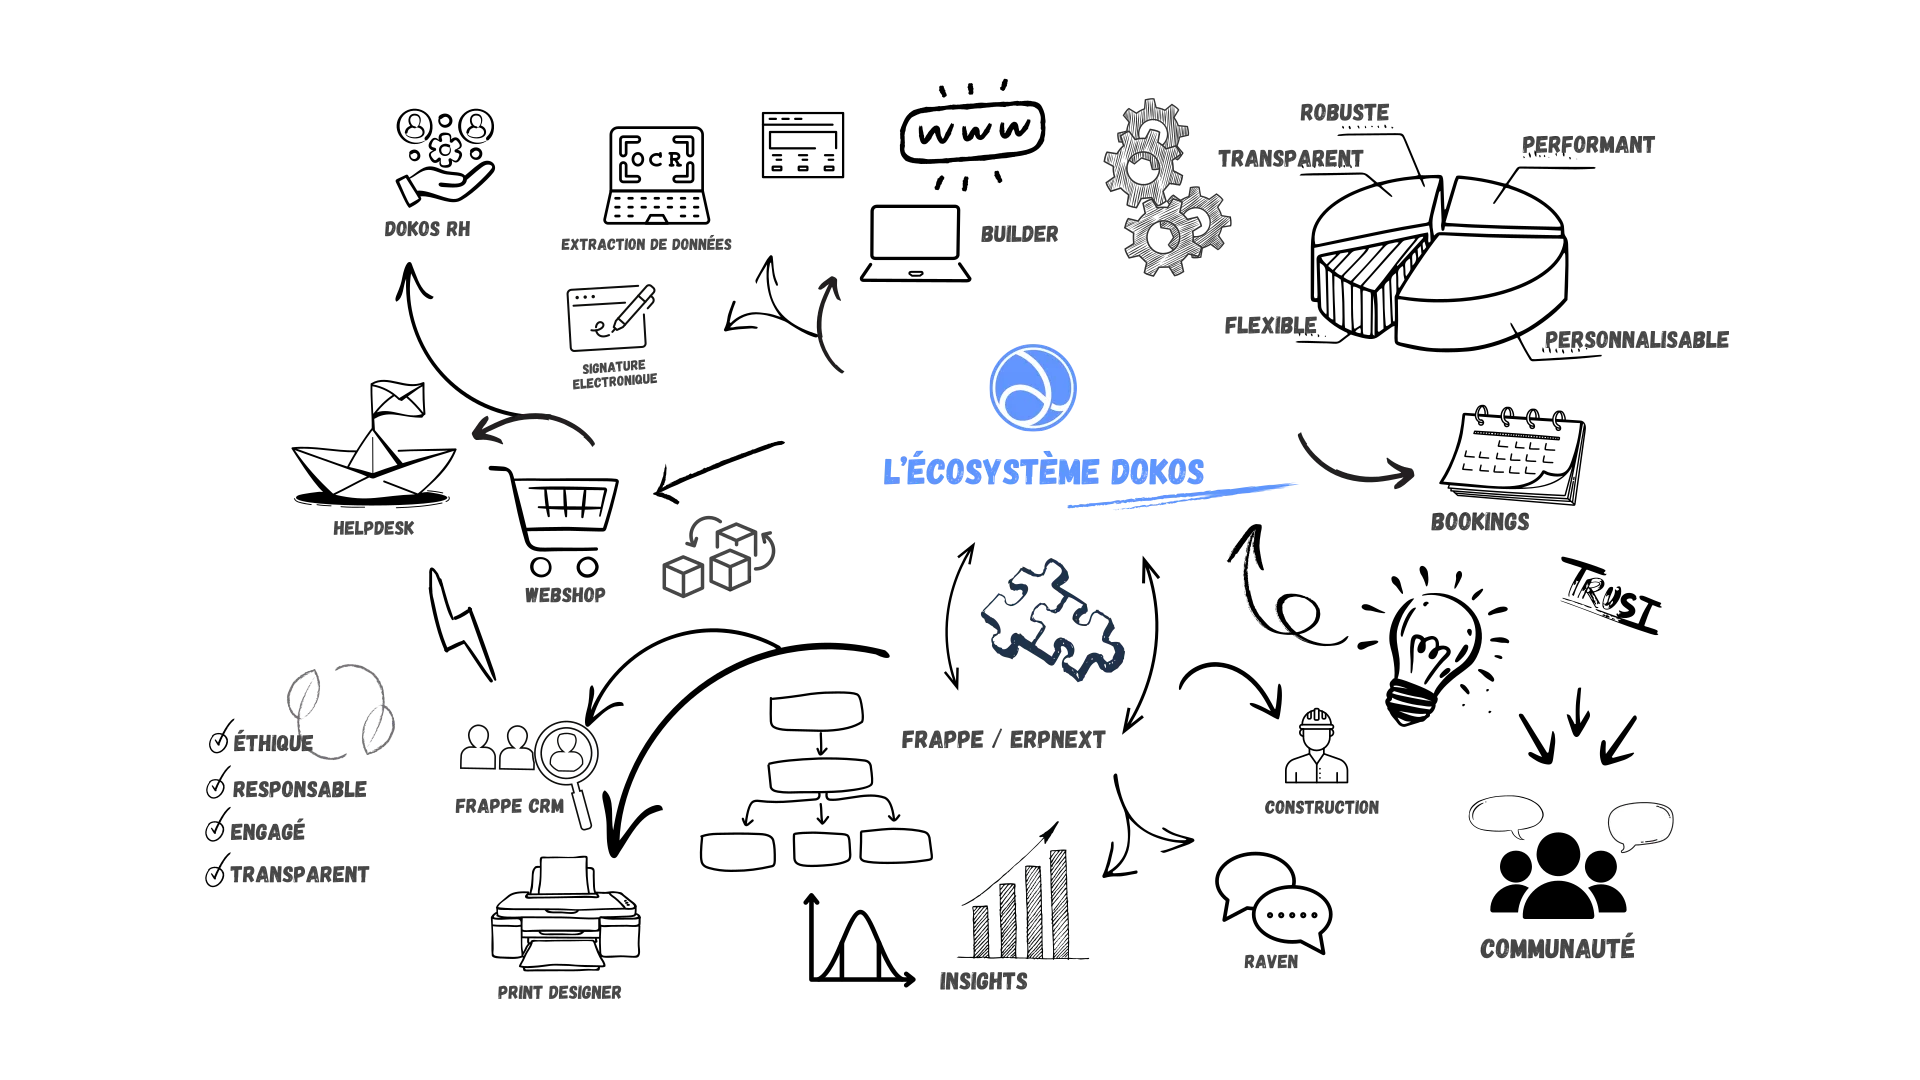
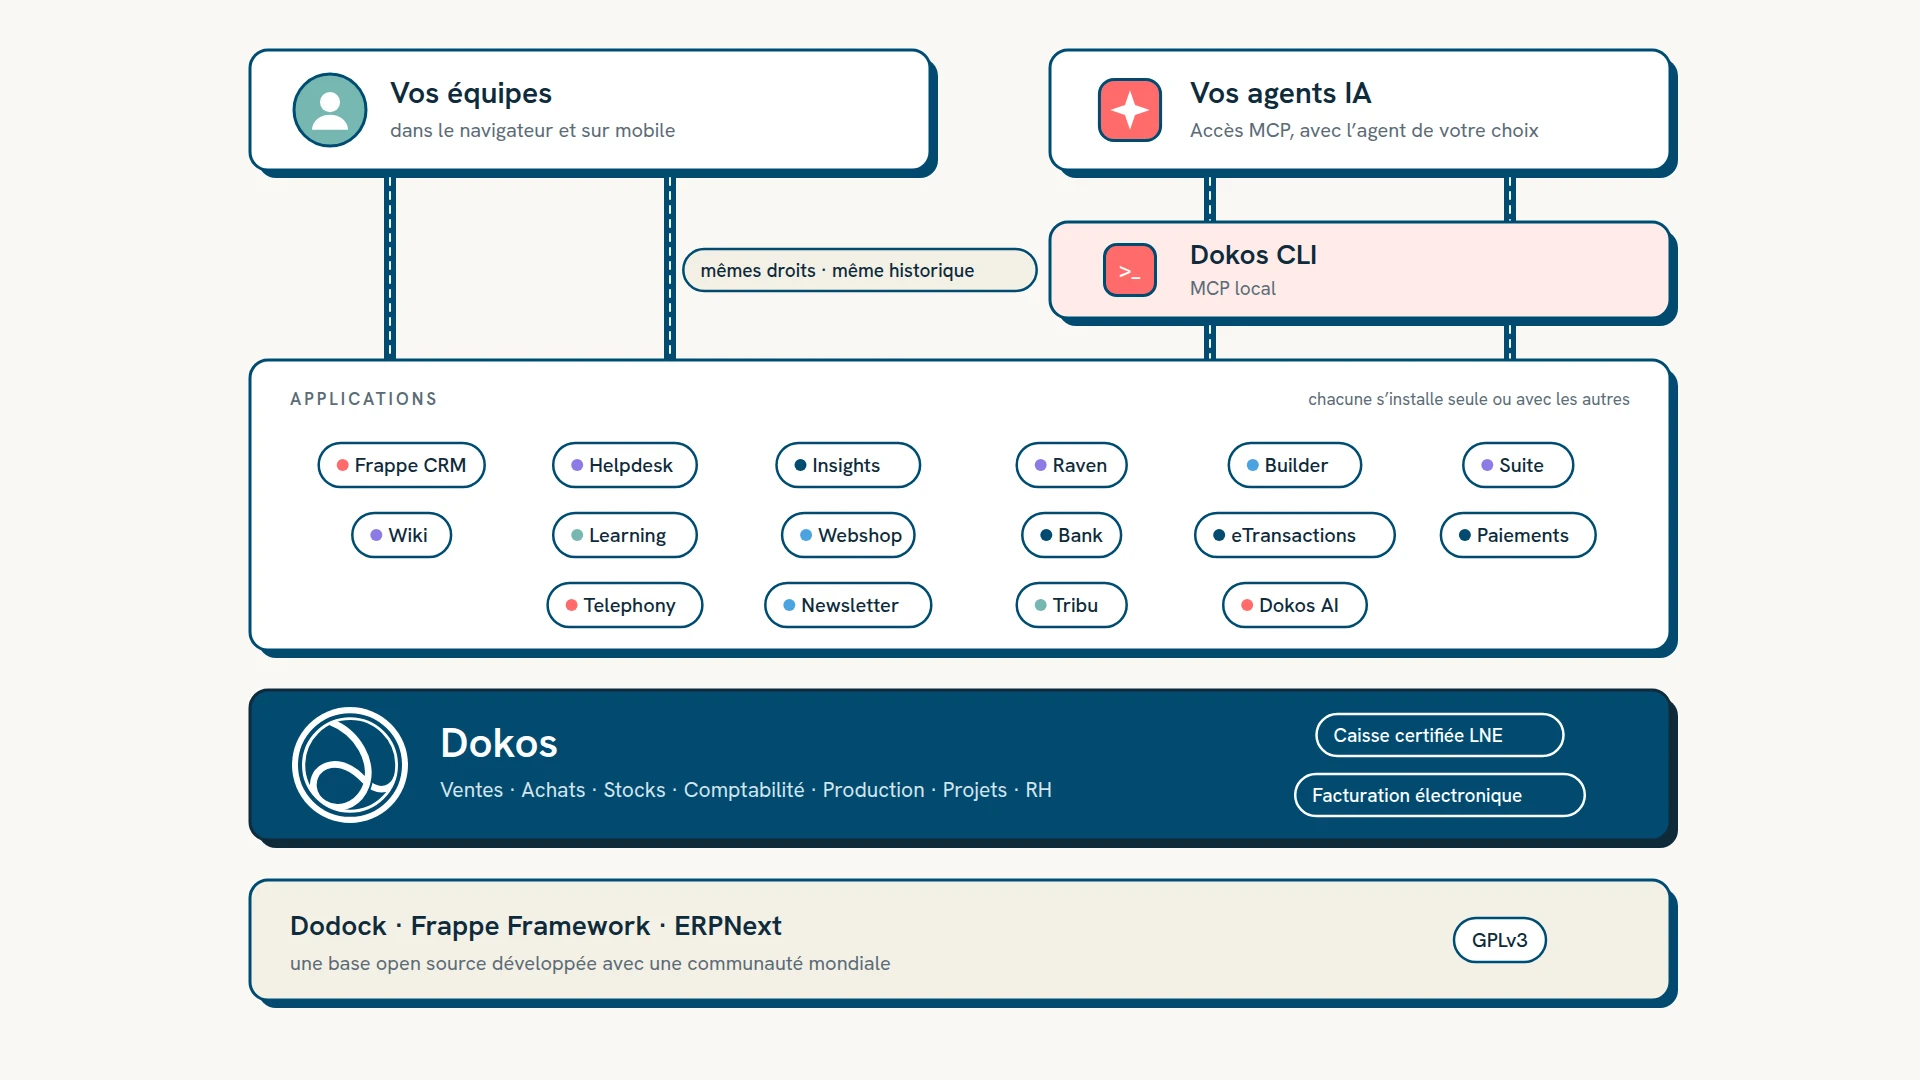
feat(home): draw the ecosystem as a stack in the hero
The French homepage hero now has two columns. On the left, the title and
three points, one for each layer: one database, the apps that plug into
it, and access for teams and AI agents. On the right, HomeStack.vue draws
the stack in HTML: Dodock/Frappe/ERPNext, Dokos, the apps, Dokos CLI
(local MCP) and the two entry points. Each block links to its product
page. Hovering a point highlights its layer.

The content lives in hero.points and hero.stack in content/fr/index.yml.
Pages without hero.stack (English for now) keep the image layout.
hero_dokos.webp is redrawn as the same stack. Agents are not named by
product: the copy says MCP only.

Changed region(s): [[0.0938, 0.0306, 0.9062, 0.9472]]

diff --git a/components/home/HomeStack.vue b/components/home/HomeStack.vue
@@ -1,0 +1,176 @@
+<script setup lang="ts">
+// The Dokos ecosystem drawn as a stack, from the open source base up to the
+// people and AI agents who use it. Content comes from `hero.stack` in
+// content/<locale>/index.yml. `focus` dims every layer except one; the hero
+// sets it when a visitor hovers one of its three points.
+
+type Layer = "core" | "apps" | "access";
+
+interface Block {
+    title: string;
+    note?: string;
+    to?: string;
+}
+
+interface Stack {
+    teams: Block;
+    agents: Block;
+    cli: Block;
+    shared?: string;
+    apps_label?: string;
+    apps_note?: string;
+    apps: (Block & { domain?: string })[];
+    core: Block & { tags?: string[] };
+    base: Block & { tag?: string };
+}
+
+const props = defineProps<{ stack: Stack; focus?: Layer | null }>();
+
+// One dot colour per business domain, shared with the hero illustration.
+const DOMAIN_COLOURS: Record<string, string> = {
+    sales: "bg-[#FF6B6B]",
+    finance: "bg-dokos-500 dark:bg-dokos-300",
+    ops: "bg-[#E0A43A]",
+    people: "bg-[#76B7B2]",
+    collab: "bg-[#8C7AE6]",
+    web: "bg-[#4AA3DF]",
+    ai: "bg-[#FF6B6B]",
+};
+
+function layerClass(layer: Layer) {
+    if (!props.focus || props.focus === layer) return "";
+    return "opacity-30 saturate-50";
+}
+
+const slab =
+    "rounded-xl border-[2.5px] border-dokos-500 dark:border-dokos-300 shadow-[6px_6px_0_var(--color-dokos-500)] dark:shadow-[6px_6px_0_var(--color-dokos-400)] transition-[opacity,filter] duration-200";
+const strap =
+    "relative w-[11px] bg-dokos-500 dark:bg-dokos-300 after:absolute after:inset-y-0 after:left-1 after:border-l-2 after:border-dashed after:border-sand-100 dark:after:border-stone-950";
+</script>
+
+<template>
+    <div class="grid gap-3.5 text-[15px] text-left" role="group" aria-label="L'écosystème Dokos">
+        <!-- Who works in Dokos: people, and agents through MCP. -->
+        <div
+            class="grid grid-cols-2 gap-x-3 sm:gap-x-5"
+            :class="layerClass('access')"
+        >
+            <ULink
+                :to="stack.teams.to"
+                :class="[slab, 'flex flex-col sm:flex-row sm:items-center gap-2 sm:gap-3.5 bg-white dark:bg-stone-900 p-3 sm:p-4']"
+            >
+                <span class="grid place-items-center size-9 sm:size-11 shrink-0 rounded-full border-[2.5px] border-dokos-500 dark:border-dokos-300 bg-[#76B7B2] text-white">
+                    <UIcon name="i-heroicons-user-solid" class="size-5 sm:size-6" />
+                </span>
+                <span>
+                    <b class="block text-base sm:text-lg leading-tight text-highlighted">{{ stack.teams.title }}</b>
+                    <small class="block text-xs sm:text-sm text-muted">{{ stack.teams.note }}</small>
+                </span>
+            </ULink>
+
+            <ULink
+                :to="stack.agents.to"
+                :class="[slab, 'flex flex-col sm:flex-row sm:items-center gap-2 sm:gap-3.5 bg-white dark:bg-stone-900 p-3 sm:p-4']"
+            >
+                <span class="grid place-items-center size-9 sm:size-11 shrink-0 rounded-[11px] border-[2.5px] border-dokos-500 dark:border-dokos-300 bg-accent text-white">
+                    <UIcon name="i-heroicons-sparkles-solid" class="size-5 sm:size-6" />
+                </span>
+                <span>
+                    <b class="block text-base sm:text-lg leading-tight text-highlighted">{{ stack.agents.title }}</b>
+                    <small class="block text-xs sm:text-sm text-muted">{{ stack.agents.note }}</small>
+                </span>
+            </ULink>
+
+            <!-- Teams go straight down to the apps. -->
+            <div class="relative flex justify-around" aria-hidden="true">
+                <span :class="strap" />
+                <span :class="strap" />
+                <span
+                    v-if="stack.shared"
+                    class="absolute left-1/2 top-1/2 -translate-x-1/2 -translate-y-1/2 w-[88%] sm:w-auto sm:whitespace-nowrap text-center rounded-full border-2 border-dokos-500 dark:border-dokos-300 bg-sand-200 dark:bg-stone-800 px-2.5 sm:px-3.5 py-1 text-[11px] sm:text-[13px] font-medium text-highlighted"
+                >
+                    {{ stack.shared }}
+                </span>
+            </div>
+
+            <!-- Agents go through Dokos CLI. -->
+            <div class="flex flex-col">
+                <div class="flex justify-around h-4" aria-hidden="true">
+                    <span :class="strap" />
+                    <span :class="strap" />
+                </div>
+                <ULink
+                    :to="stack.cli.to"
+                    :class="[slab, 'flex flex-col sm:flex-row sm:items-center gap-2 sm:gap-3.5 bg-[#FFECEA] dark:bg-[#3b2222] p-3 sm:p-4']"
+                >
+                    <span class="grid place-items-center size-9 shrink-0 rounded-[10px] border-[2.5px] border-dokos-500 dark:border-dokos-300 bg-accent text-white">
+                        <UIcon name="i-heroicons-command-line" class="size-5" />
+                    </span>
+                    <span>
+                        <b class="block text-base sm:text-lg leading-tight text-highlighted">{{ stack.cli.title }}</b>
+                        <small class="block text-xs sm:text-sm text-muted">{{ stack.cli.note }}</small>
+                    </span>
+                </ULink>
+                <div class="flex justify-around h-4" aria-hidden="true">
+                    <span :class="strap" />
+                    <span :class="strap" />
+                </div>
+            </div>
+        </div>
+
+        <!-- Apps that plug into Dokos. -->
+        <div :class="[slab, layerClass('apps'), 'bg-white dark:bg-stone-900 p-4 sm:px-5']">
+            <div class="flex items-baseline justify-between gap-3 mb-3">
+                <span class="text-xs font-semibold uppercase tracking-[0.14em] text-muted">{{ stack.apps_label }}</span>
+                <span class="hidden sm:inline text-[13px] text-muted">{{ stack.apps_note }}</span>
+            </div>
+            <ul class="grid grid-cols-3 sm:grid-cols-4 gap-1.5 sm:gap-2.5">
+                <li v-for="app in stack.apps" :key="app.title">
+                    <ULink
+                        :to="app.to"
+                        class="flex items-center justify-center gap-1.5 sm:gap-2 rounded-full border-2 bg-white dark:bg-stone-900 px-1 sm:px-2 py-1.5 text-xs sm:text-sm font-medium whitespace-nowrap text-highlighted transition hover:-translate-x-0.5 hover:-translate-y-0.5 hover:bg-sand-200 dark:hover:bg-stone-800 hover:shadow-[3px_3px_0_var(--color-dokos-500)] focus-visible:-translate-x-0.5 focus-visible:-translate-y-0.5"
+                        :class="app.domain === 'ai' ? 'border-accent' : 'border-dokos-500 dark:border-dokos-300'"
+                    >
+                        <span class="size-2 shrink-0 rounded-full" :class="DOMAIN_COLOURS[app.domain ?? 'collab']" aria-hidden="true" />
+                        {{ app.title }}
+                    </ULink>
+                </li>
+            </ul>
+        </div>
+
+        <!-- Dokos itself, on the open source base. -->
+        <ULink
+            :to="stack.core.to"
+            :class="[slab, layerClass('core'), 'flex flex-wrap sm:flex-nowrap items-center gap-3 sm:gap-4 bg-dokos-500 dark:bg-dokos-700 p-4 sm:px-5 text-white']"
+        >
+            <span class="grid place-items-center size-12 sm:size-16 shrink-0 rounded-full bg-white">
+                <img src="/dokos_logo_round.svg" alt="" class="size-11 sm:size-14">
+            </span>
+            <span class="min-w-0">
+                <b class="block text-2xl sm:text-[28px] leading-none">{{ stack.core.title }}</b>
+                <span class="block mt-1.5 text-sm text-dokos-100">{{ stack.core.note }}</span>
+            </span>
+            <span v-if="stack.core.tags?.length" class="flex sm:grid gap-2 sm:justify-items-end sm:ml-auto">
+                <span
+                    v-for="tag in stack.core.tags"
+                    :key="tag"
+                    class="rounded-full border-[1.5px] border-white px-3 py-0.5 text-xs sm:text-[13px] font-medium whitespace-nowrap"
+                >{{ tag }}</span>
+            </span>
+        </ULink>
+
+        <ULink
+            :to="stack.base.to"
+            :class="[slab, layerClass('core'), 'flex items-center gap-3.5 bg-sand-200 dark:bg-stone-800 p-4 sm:px-5']"
+        >
+            <span>
+                <b class="block text-base sm:text-[17px] text-highlighted">{{ stack.base.title }}</b>
+                <span class="block text-sm text-muted">{{ stack.base.note }}</span>
+            </span>
+            <span
+                v-if="stack.base.tag"
+                class="hidden sm:inline ml-auto rounded-full border-2 border-dokos-500 dark:border-dokos-300 bg-white dark:bg-stone-900 px-3 py-0.5 text-[13px] font-semibold text-highlighted"
+            >{{ stack.base.tag }}</span>
+        </ULink>
+    </div>
+</template>

diff --git a/pages/index.vue b/pages/index.vue
@@ -13,6 +13,14 @@ if (!page.value) {
     });
 }
 
+// Hero: the point the visitor hovers highlights the matching layer of HomeStack.
+const stackFocus = ref<"core" | "apps" | "access" | null>(null);
+const POINT_MARKS: Record<string, string> = {
+    core: "bg-dokos-500",
+    apps: "bg-white dark:bg-stone-900 bg-[radial-gradient(circle,#FF6B6B_3px,transparent_3.5px),radial-gradient(circle,#8C7AE6_3px,transparent_3.5px),radial-gradient(circle,#4AA3DF_3px,transparent_3.5px),radial-gradient(circle,#E0A43A_3px,transparent_3.5px)] bg-[length:10px_10px] bg-[position:2px_2px,9px_2px,2px_9px,9px_9px] bg-no-repeat",
+    access: "bg-accent",
+};
+
 const sorted_modules = computed(() => {
     return [...(page.value!.modules?.items ?? [])].sort((a: any, b: any) =>
         a.title.localeCompare(b.title)
@@ -47,8 +55,9 @@ useSeoMeta({
 
         <UPageHero
             :links="page.hero.links"
-            orientation="vertical"
-            class="relative z-[1] pb-0 sm:pb-0 md:pb-0"
+            :orientation="page.hero.stack ? 'horizontal' : 'vertical'"
+            class="relative z-[1]"
+            :class="page.hero.stack ? '' : 'pb-0 sm:pb-0 md:pb-0'"
         >
             <template #headline>
                 <UBadge
@@ -71,12 +80,37 @@ useSeoMeta({
             </template>
 
             <template #description>
-                <span v-html="page.hero.description" />
+                <!-- One line per layer of the stack; hovering a line highlights its layer. -->
+                <ul v-if="page.hero.points" class="grid gap-1 text-left">
+                    <li
+                        v-for="point in page.hero.points"
+                        :key="point.layer"
+                        class="grid grid-cols-[1.75rem_1fr] gap-3 -mx-3 px-3 py-2.5 rounded-lg transition-colors hover:bg-sand-200 dark:hover:bg-stone-800"
+                        @mouseenter="stackFocus = point.layer"
+                        @mouseleave="stackFocus = null"
+                    >
+                        <span
+                            class="mt-1 size-7 rounded-md border-[2.5px] border-dokos-500 dark:border-dokos-300"
+                            :class="POINT_MARKS[point.layer]"
+                            aria-hidden="true"
+                        />
+                        <span>
+                            <strong class="block text-lg text-highlighted">{{ point.title }}</strong>
+                            <span class="block text-base leading-snug mt-0.5">{{ point.description }}</span>
+                        </span>
+                    </li>
+                </ul>
+                <span v-else v-html="page.hero.description" />
             </template>
 
             <template #default>
+                <HomeStack
+                    v-if="page.hero.stack"
+                    :stack="page.hero.stack"
+                    :focus="stackFocus"
+                />
                 <AppImage
-                    v-if="page.hero.image"
+                    v-else-if="page.hero.image"
                     :src="'/home/' + page.hero.image"
                     class="w-full rounded-md"
                     loading="lazy"
